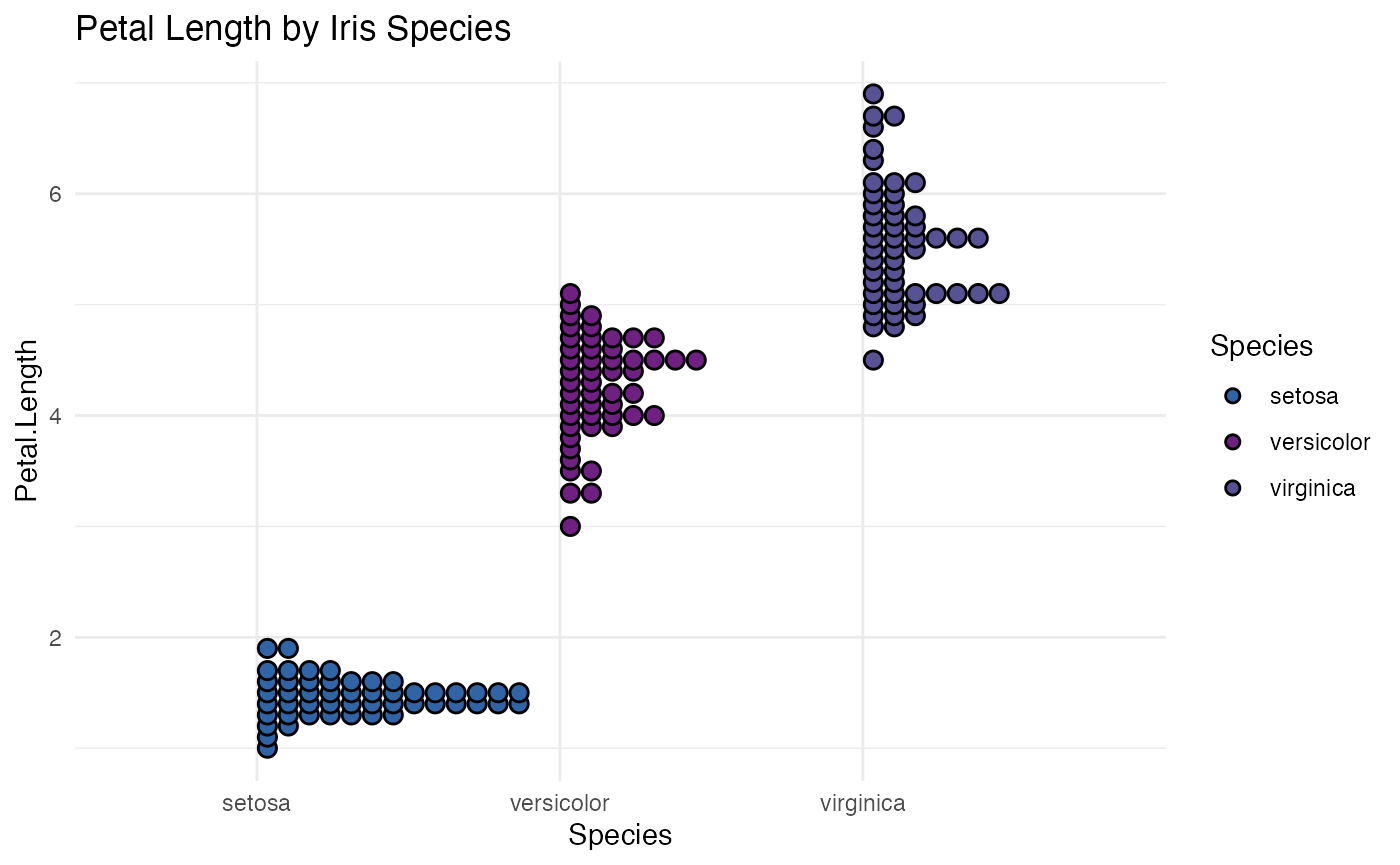
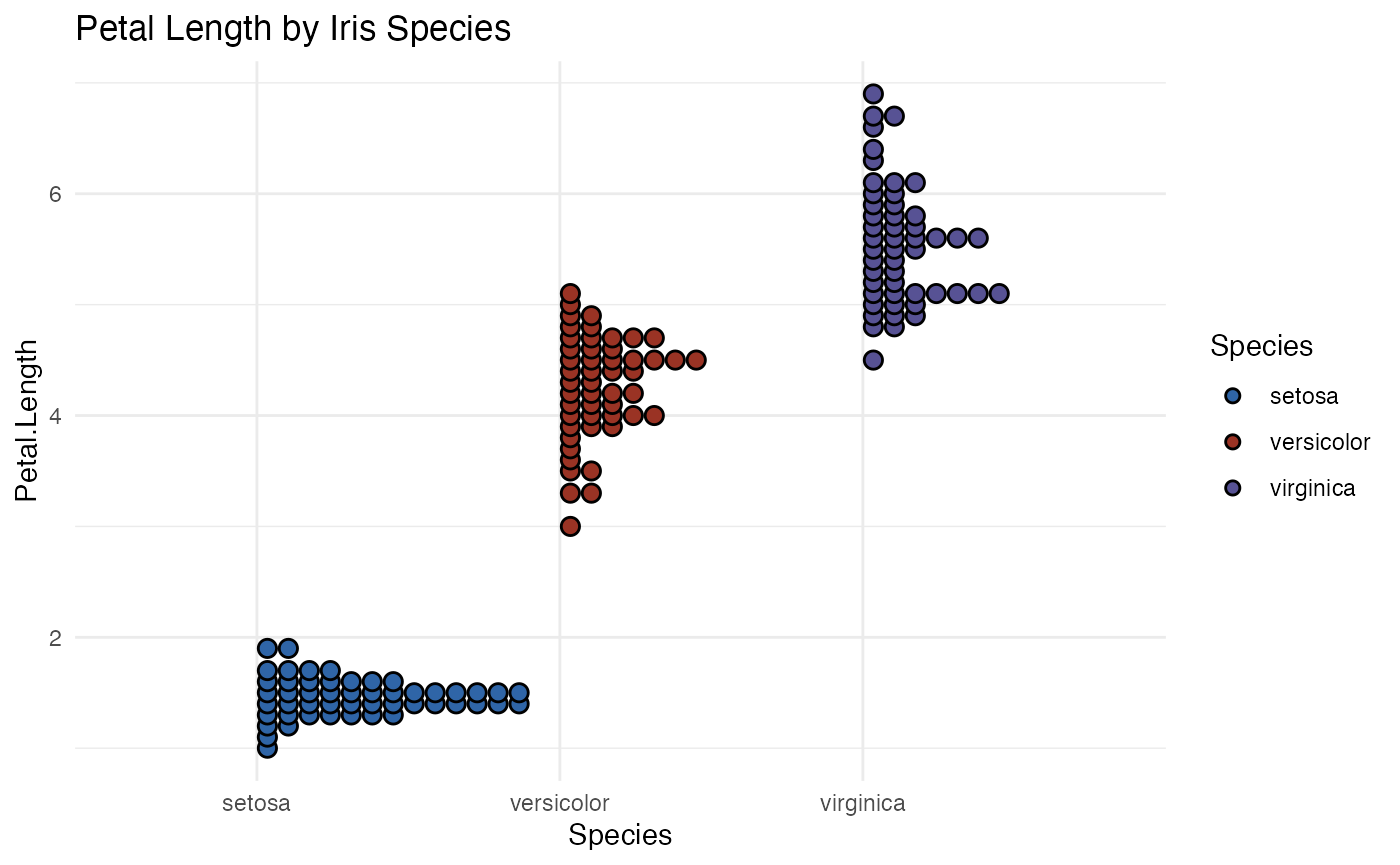
rebuild site using more vibrant colors

Changed region(s): [[0.3993, 0.3121, 0.5221, 0.6243]]

diff --git a/docs/reference/michigancolors.html b/docs/reference/michigancolors.html
@@ -60,7 +60,7 @@
 <span class="r-plt img"><img src="michigancolors-1.png" alt="" width="700" height="433"></span>
 <span class="r-in"><span><span class="fu"><a href="https://rdrr.io/r/graphics/hist.html" class="external-link">hist</a></span><span class="op">(</span><span class="va">iris</span><span class="op">$</span><span class="va">Petal.Length</span>, col <span class="op">=</span> <span class="fu">michigancolors</span><span class="op">(</span><span class="st">"blue"</span><span class="op">)</span><span class="op">)</span></span></span>
 <span class="r-plt img"><img src="michigancolors-2.png" alt="" width="700" height="433"></span>
-<span class="r-in"><span><span class="fu"><a href="https://rdrr.io/r/graphics/plot.default.html" class="external-link">plot</a></span><span class="op">(</span><span class="va">iris</span><span class="op">$</span><span class="va">Petal.Length</span>, <span class="va">iris</span><span class="op">$</span><span class="va">Petal.Width</span>, col <span class="op">=</span> <span class="fu">michigancolors</span><span class="op">(</span><span class="st">"arboretum blue"</span><span class="op">)</span>, pch <span class="op">=</span> <span class="fl">19</span><span class="op">)</span></span></span>
+<span class="r-in"><span><span class="fu"><a href="https://rdrr.io/r/graphics/plot.default.html" class="external-link">plot</a></span><span class="op">(</span><span class="va">iris</span><span class="op">$</span><span class="va">Petal.Length</span>, <span class="va">iris</span><span class="op">$</span><span class="va">Petal.Width</span>, col <span class="op">=</span> <span class="fu">michigancolors</span><span class="op">(</span><span class="st">"tappan red"</span><span class="op">)</span>, pch <span class="op">=</span> <span class="fl">19</span><span class="op">)</span></span></span>
 <span class="r-plt img"><img src="michigancolors-3.png" alt="" width="700" height="433"></span>
 </code></pre></div>
     </div>

diff --git a/docs/articles/basicuse.html b/docs/articles/basicuse.html
@@ -176,7 +176,7 @@ tower beige”, “angell hall ash”, and “law quad stone”</p>
 <span>  <span class="fu"><a href="https://ggplot2.tidyverse.org/reference/labs.html" class="external-link">labs</a></span><span class="op">(</span>title <span class="op">=</span> <span class="st">"Petal Length by Iris Species"</span><span class="op">)</span> <span class="op">+</span> </span>
 <span>  <span class="fu"><a href="https://ggplot2.tidyverse.org/reference/ggtheme.html" class="external-link">theme_minimal</a></span><span class="op">(</span><span class="op">)</span> <span class="op">+</span> </span>
 <span>  <span class="fu"><a href="https://ggplot2.tidyverse.org/reference/scale_manual.html" class="external-link">scale_fill_manual</a></span><span class="op">(</span>values <span class="op">=</span> <span class="fu"><a href="https://rdrr.io/r/base/c.html" class="external-link">c</a></span><span class="op">(</span><span class="fu"><a href="../reference/michigancolors.html">michigancolors</a></span><span class="op">(</span><span class="st">"arboretum blue"</span><span class="op">)</span>,</span>
-<span>                               <span class="fu"><a href="../reference/michigancolors.html">michigancolors</a></span><span class="op">(</span><span class="st">"ann arbor amethyst"</span><span class="op">)</span>,</span>
+<span>                               <span class="fu"><a href="../reference/michigancolors.html">michigancolors</a></span><span class="op">(</span><span class="st">"tappan red"</span><span class="op">)</span>,</span>
 <span>                               <span class="fu"><a href="../reference/michigancolors.html">michigancolors</a></span><span class="op">(</span><span class="st">"matthaei violet"</span><span class="op">)</span><span class="op">)</span><span class="op">)</span></span></code></pre></div>
 <p><img src="basicuse_files/figure-html/unnamed-chunk-14-1.png" width="700"></p>
 </div>
